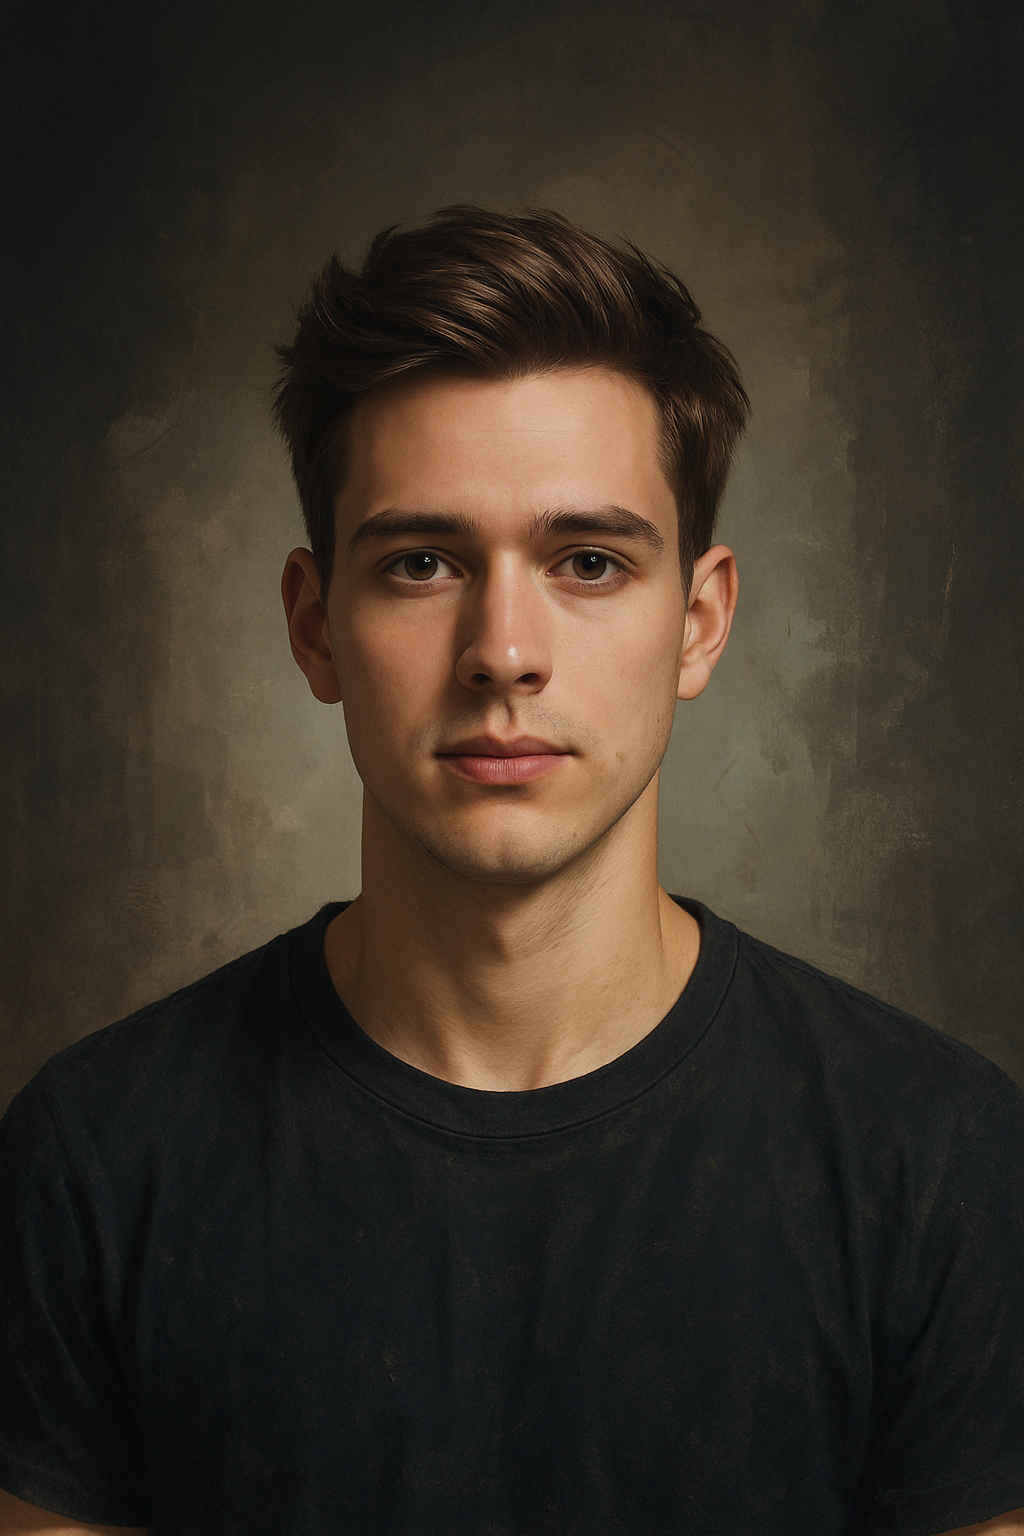
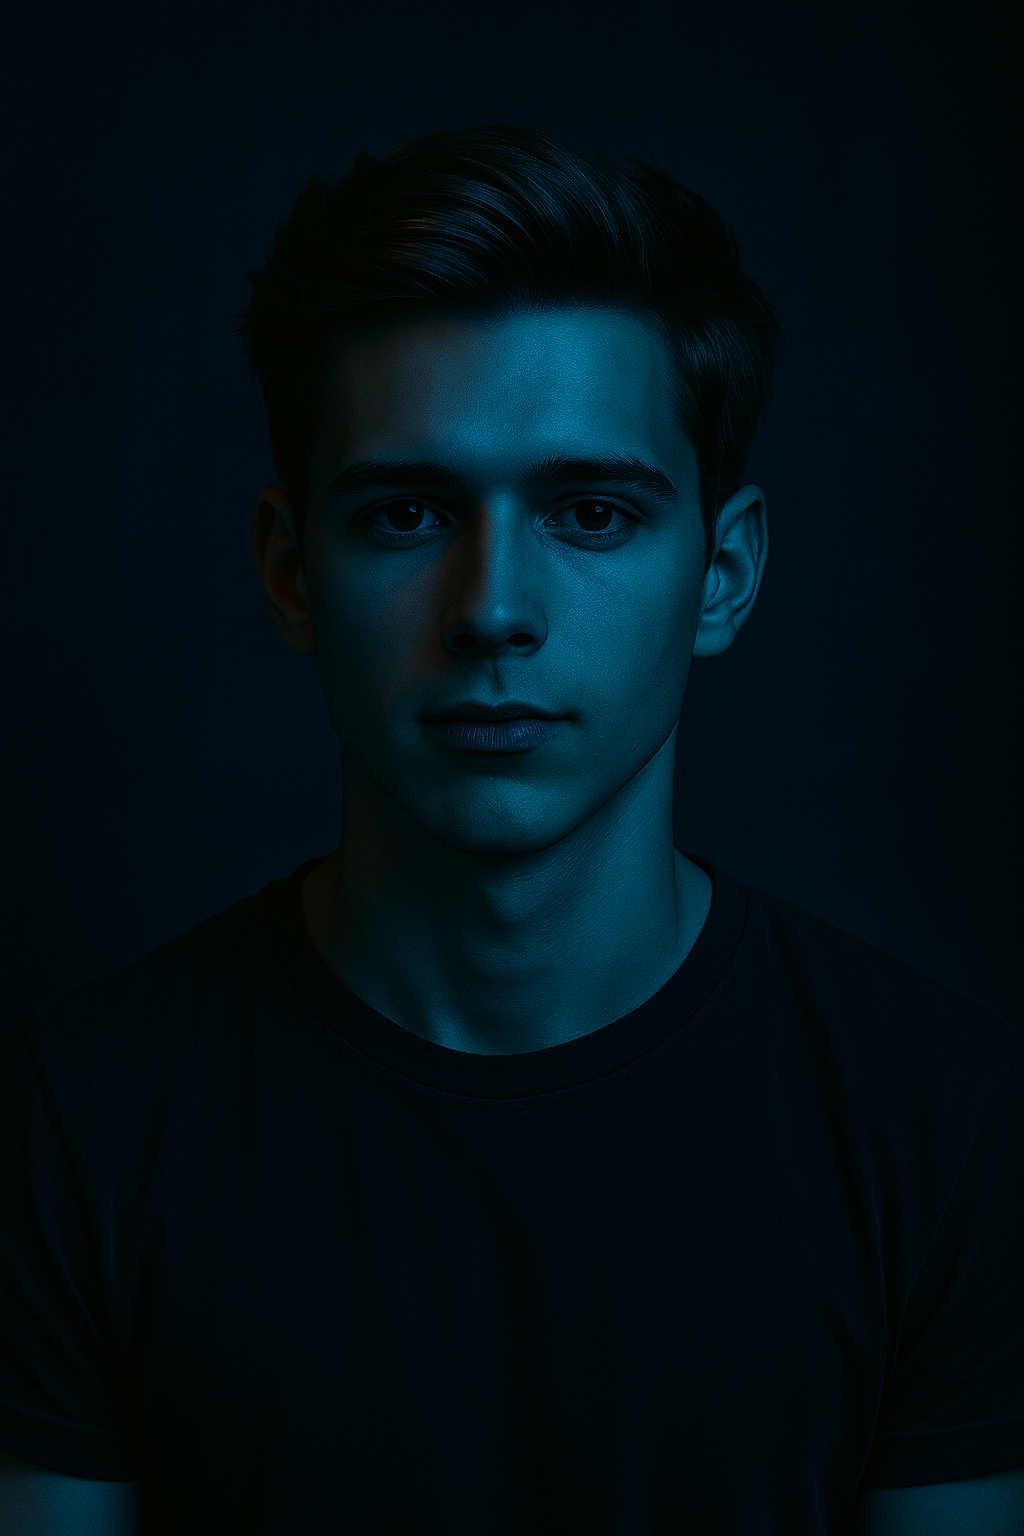
update

diff --git a/src/components/CappenFAQ.tsx b/src/components/CappenFAQ.tsx
@@ -5,32 +5,38 @@ import { Plus, Minus } from "lucide-react";
 const faqs = [
   {
     question: "What services do you offer?",
-    answer: "We offer comprehensive digital services including brand strategy, digital product design and development, user experience design, creative direction, web and mobile development, and motion design. Each service is tailored to meet your specific business needs."
+    answer:
+      "We focus exclusively on Performance Marketing and Marketing Audits. Performance Marketing includes managing and optimizing campaigns on Meta, TikTok, and Google with a strict goal of measurable growth. Marketing Audits provide a deep analysis of your current marketing setup and a clear roadmap for scalable improvements.",
   },
   {
     question: "How long does a typical project take?",
-    answer: "Project timelines vary based on scope and complexity. A brand identity project typically takes 6-8 weeks, while a full digital product can take 3-6 months. We'll provide a detailed timeline during our initial consultation."
+    answer:
+      "Performance Marketing runs on monthly cycles with continuous optimization. First measurable improvements usually appear within 1–3 weeks. Marketing Audits are delivered within 3–5 business days, including a full breakdown and growth plan.",
   },
   {
-    question: "What is your design process?",
-    answer: "Our process begins with discovery and research, followed by strategy development, design exploration, iterative refinement, and final delivery. We maintain close collaboration with clients throughout, ensuring alignment with your vision and goals."
+    question: "What is your process?",
+    answer:
+      "Audit: 1) Data collection, 2) Deep analysis of campaigns, creatives, audiences, funnel, and tracking, 3) Identifying wasted budget and missed opportunities, 4) Delivery of a step-by-step improvement plan. Performance Marketing: 1) Strategy and funnel mapping, 2) Creative testing & production guidance, 3) Campaign launch, 4) Continuous optimization & scaling, 5) Weekly reporting and KPI tracking.",
   },
   {
     question: "Do you work with startups or only established companies?",
-    answer: "We work with businesses of all sizes, from ambitious startups to established enterprises. Our flexible approach allows us to scale our services to match your budget and timeline while maintaining our high standards."
+    answer:
+      "We work with both. Startups benefit from our structured launch systems, while established businesses rely on us to reduce CPL/CPA, fix inefficiencies, and scale results. Our systems adapt to any stage of growth.",
   },
   {
     question: "What makes your agency different?",
-    answer: "We combine strategic thinking with exceptional craft. Our team brings together diverse expertise in design, technology, and business strategy. We focus on creating work that not only looks beautiful but drives measurable results."
+    answer:
+      "We specialize instead of offering dozens of services. We focus solely on performance marketing — data, testing, optimization, and results. No guesswork, no fluff. Clients stay because we are transparent, fast, ROI-driven, and numbers-focused.",
   },
   {
     question: "How do you handle project communication?",
-    answer: "We believe in transparent, regular communication. You'll have a dedicated project lead, weekly check-ins, and access to a shared project workspace. We adapt our communication style to match your preferences and availability."
-  }
+    answer:
+      "You get a dedicated manager, weekly KPI-focused performance updates, fast communication via WhatsApp/Telegram, and monthly calls to analyze results and plan next steps. You always know what is happening and why.",
+  },
 ];
 
 export const CappenFAQ = () => {
-  const [expandedIndex, setExpandedIndex] = useState<number | null>(null);
+  const [expandedIndex, setExpandedIndex] = useState(null);
 
   return (
     <section className="py-32 px-6 bg-background">
@@ -42,9 +48,7 @@ export const CappenFAQ = () => {
           transition={{ duration: 0.8 }}
           className="mb-20"
         >
-          <h2 className="text-[6vw] font-light mb-4">
-            FREQUENTLY ASKED
-          </h2>
+          <h2 className="text-[6vw] font-light mb-4">FREQUENTLY ASKED</h2>
           <p className="text-xl text-muted-foreground font-light">
             Everything you need to know
           </p>
@@ -61,7 +65,9 @@ export const CappenFAQ = () => {
               className="border-b border-border last:border-0"
             >
               <button
-                onClick={() => setExpandedIndex(expandedIndex === index ? null : index)}
+                onClick={() =>
+                  setExpandedIndex(expandedIndex === index ? null : index)
+                }
                 className="w-full py-8 flex justify-between items-center text-left group hover:text-primary transition-colors duration-300"
               >
                 <h3 className="text-2xl md:text-3xl font-light pr-8">

diff --git a/src/components/CappenServices.tsx b/src/components/CappenServices.tsx
@@ -5,28 +5,34 @@ import { ChevronDown } from "lucide-react";
 
 const services = [
   {
-    title: "BRAND STRATEGY",
-    description: "We craft distinctive brand identities that resonate with your audience. Our strategic approach includes brand positioning, messaging frameworks, and comprehensive guidelines."
+    title: "MARKETING AUDIT",
+    description:
+      "A deep diagnostic of your entire marketing ecosystem — campaigns, audiences, tracking, funnel, website, and messaging. You receive a clear roadmap to eliminate wasted spend and unlock faster growth.",
   },
   {
-    title: "DIGITAL PRODUCTS",
-    description: "End-to-end product design and development. From concept to launch, we build scalable digital solutions that deliver exceptional user experiences."
+    title: "PERFORMANCE STRATEGY",
+    description:
+      "We build data-driven advertising strategies designed to reduce costs, increase conversions, and create predictable growth. Every strategy is tailored to your niche, audience, and business goals.",
   },
   {
-    title: "USER EXPERIENCE",
-    description: "Research-driven UX design that prioritizes user needs. We create intuitive interfaces through wireframing, prototyping, and rigorous user testing."
+    title: "CAMPAIGN MANAGEMENT",
+    description:
+      "End-to-end management of Meta, TikTok, and Google Ads. We handle setup, testing, optimization, and scaling — ensuring your budget works at maximum efficiency.",
   },
   {
-    title: "CREATIVE DIRECTION",
-    description: "Visionary creative leadership for your projects. We define aesthetic direction, oversee execution, and ensure consistency across all touchpoints."
+    title: "FUNNEL & USER JOURNEY ANALYSIS",
+    description:
+      "We analyze how users move through your funnel, identify drop-off points, fix inefficiencies, and improve the path from click to sale. Better flow means higher profitability.",
   },
   {
-    title: "DEVELOPMENT",
-    description: "High-performance web and mobile development. We build with cutting-edge technologies, ensuring speed, security, and seamless functionality."
+    title: "CREATIVE PERFORMANCE",
+    description:
+      "We create, test, and refine high-performing ad creatives that drive real business results. Every concept is built around data, psychology, and continuous A/B testing.",
   },
   {
-    title: "MOTION DESIGN",
-    description: "Dynamic animations and motion graphics that bring your brand to life. From micro-interactions to full video production."
+    title: "TRACKING & DATA SETUP",
+    description:
+      "We ensure your analytics, pixels, events, and conversions are configured correctly — giving you clean, reliable data to scale with confidence.",
   },
 ];
 
@@ -51,7 +57,9 @@ export const CappenServices = () => {
               whileInView={{ opacity: 1, y: 0 }}
               viewport={{ once: true }}
               transition={{ duration: 0.6, delay: index * 0.1 }}
-              onClick={() => setExpandedIndex(expandedIndex === index ? null : index)}
+              onClick={() =>
+                setExpandedIndex(expandedIndex === index ? null : index)
+              }
             >
               <motion.div
                 className="absolute inset-0 bg-primary origin-left"
@@ -59,17 +67,26 @@ export const CappenServices = () => {
                 animate={{ scaleX: expandedIndex === index ? 1 : 0 }}
                 transition={{ duration: 0.4 }}
               />
-              
+
               <div className="relative z-10 p-12">
                 <div className="flex justify-between items-start">
-                  <h3 className={`text-xl sm:text-2xl md:text-4xl font-light transition-colors duration-300 ${                    expandedIndex === index ? "text-background" : "text-foreground group-hover:text-primary"
-                  }`}>
+                  <h3
+                    className={`text-xl sm:text-2xl md:text-4xl font-light transition-colors duration-300 ${
+                      expandedIndex === index
+                        ? "text-background"
+                        : "text-foreground group-hover:text-primary"
+                    }`}
+                  >
                     <InteractiveText text={service.title} />
                   </h3>
                   <motion.div
                     animate={{ rotate: expandedIndex === index ? 180 : 0 }}
                     transition={{ duration: 0.3 }}
-                    className={expandedIndex === index ? "text-background" : "text-foreground"}
+                    className={
+                      expandedIndex === index
+                        ? "text-background"
+                        : "text-foreground"
+                    }
                   >
                     <ChevronDown className="w-6 h-6" />
                   </motion.div>

diff --git a/src/components/VRTeamCarousel.tsx b/src/components/VRTeamCarousel.tsx
@@ -2,10 +2,11 @@ import { useState } from "react";
 import { motion, AnimatePresence } from "framer-motion";
 import { ChevronLeft, ChevronRight } from "lucide-react";
 import { Button } from "@/components/ui/button";
-import teamMember1 from "@/assets/team-member-1.png";
-import teamMember2 from "@/assets/team-member-2.png";
-import teamMember3 from "@/assets/team-member-3.png";
-import teamMember4 from "@/assets/oleksii.png";
+import vaso from "@/assets/vaso.png";
+import katie from "@/assets/katie.png";
+import alexi from "@/assets/alexi.png";
+import oleksii from "@/assets/oleksii.png";
+import tolia from "@/assets/tolia.png";
 
 
 interface TeamMember {
@@ -17,12 +18,11 @@ interface TeamMember {
 }
 
 const teamMembers: TeamMember[] = [
-  { id: 1, name: "Vaso", surname: "Berulava", role: "SEO", image: teamMember3 },
-  { id: 2, name: "Katia", surname: "Tsymbal", role: "Kto-to", image: teamMember2 },
-  { id: 3, name: "Alexi", surname: "Kto-to", role: "SEO-2", image: teamMember3 },
-  { id: 4, name: "Sofia", surname: "Matuhkina", role: "UI/UX Designer", image: teamMember4 },
-  { id: 5, name: "Oleksii", surname: "Zarytskyi", role: "Software Developer", image: teamMember4 },
-  { id: 6, name: "Anatolii", surname: "Grigorzhevsky", role: "Software Developer", image: teamMember1 }
+  { id: 1, name: "Vaso", surname: "Berulava", role: "SEO", image: vaso },
+  { id: 2, name: "Katie", surname: "Tsymbal", role: "Team Lead", image:  katie },
+  { id: 3, name: "Alexi", surname: "Kto-to", role: "SEO", image: alexi },
+  { id: 4, name: "Oleksii", surname: "Zarytskyi", role: "Software Developer", image: oleksii },
+  { id: 5, name: "Anatolii", surname: "Grigorzhevsky", role: "Software Developer", image: tolia }
 ];
 
 export const VRTeamCarousel = () => {

diff --git a/src/components/CappenAbout.tsx b/src/components/CappenAbout.tsx
@@ -66,9 +66,9 @@ export const CappenAbout = () => {
           viewport={{ once: true }}
           transition={{ duration: 1, delay: 0.3, ease: [0.25, 0.1, 0.25, 1] }}
         >
-          We are a visionary independent digital product studio working at the
-          intersection of strategy, design, and technology. We lead organizations
-          into their digital future.
+         We are a performance-driven advertising agency focused on one thing — measurable growth.
+         Through precision advertising and deep marketing audits, we help businesses eliminate wasted budget, scale profitably, and turn marketing into a predictable acquisition engine.
+
         </motion.p>
       </motion.div>
     </section>

diff --git a/src/components/Review.tsx b/src/components/Review.tsx
@@ -7,7 +7,7 @@ const testimonials = [
 	id: 1,
 	name: "ALEXANDER CHEN",
 	role: "CEO, NEXUS TECH",
-	quote: "Working with this studio transformed our digital presence entirely. Their attention to detail and creative vision exceeded all expectations.",
+	quote: "Working with this studio transformed our digital presence entirely. ",
 	project: "BRAND IDENTITY"
   },
   {

diff --git a/src/components/CappenHero.tsx b/src/components/CappenHero.tsx
@@ -134,12 +134,12 @@ export const CappenHero: React.FC = () => {
   const title = [
     "AN",
     "INDEPENDENT",
-    "CREATIVE",
-    "STUDIO",
+    "PERFORMANCE",
+    "AGENCY",
     "SPECIALIZED",
     "IN",
-    "DIGITAL",
-    "EXPERIENCES.",
+    "SCALING",
+    "BRANDS.",
   ];
 
   return (
